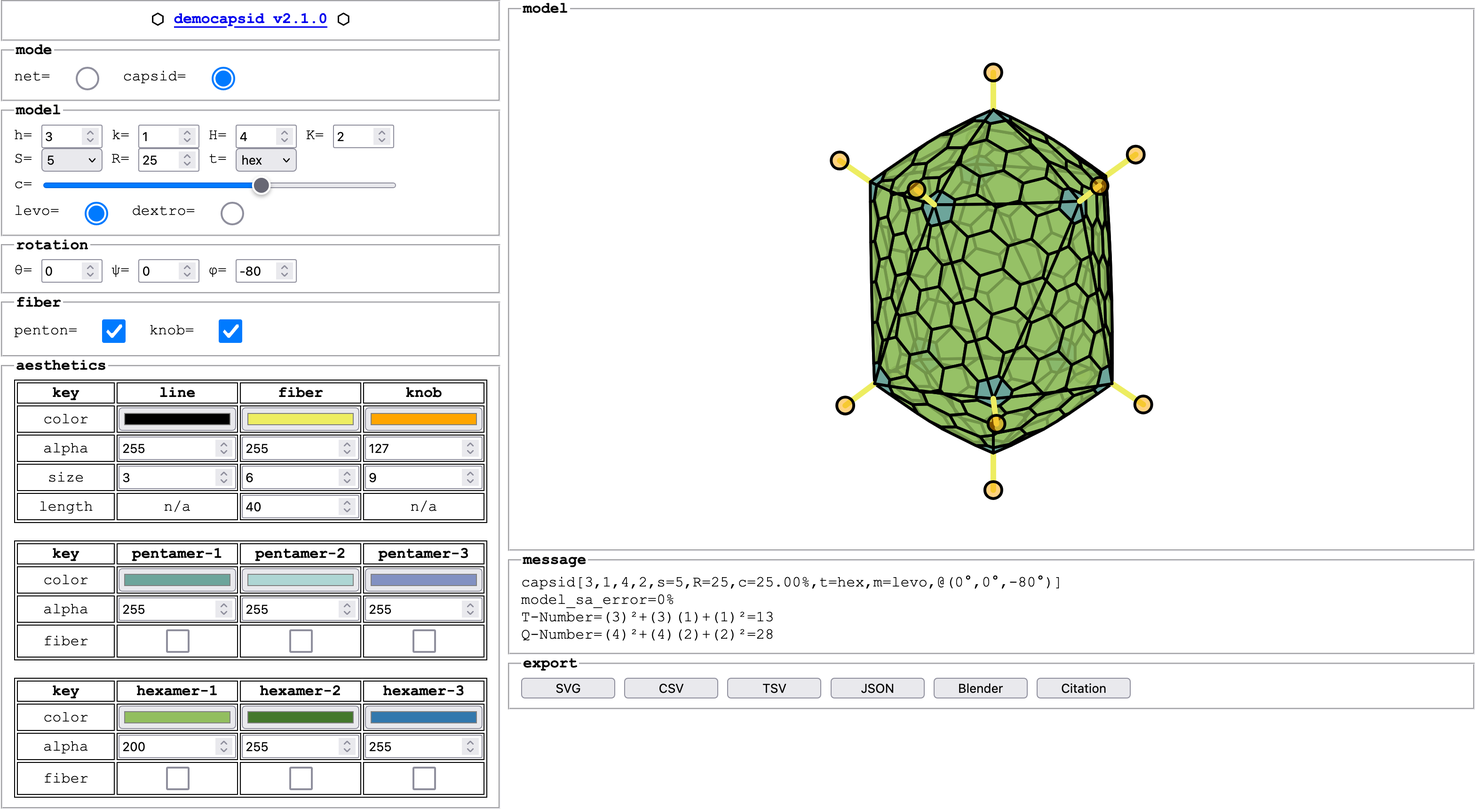
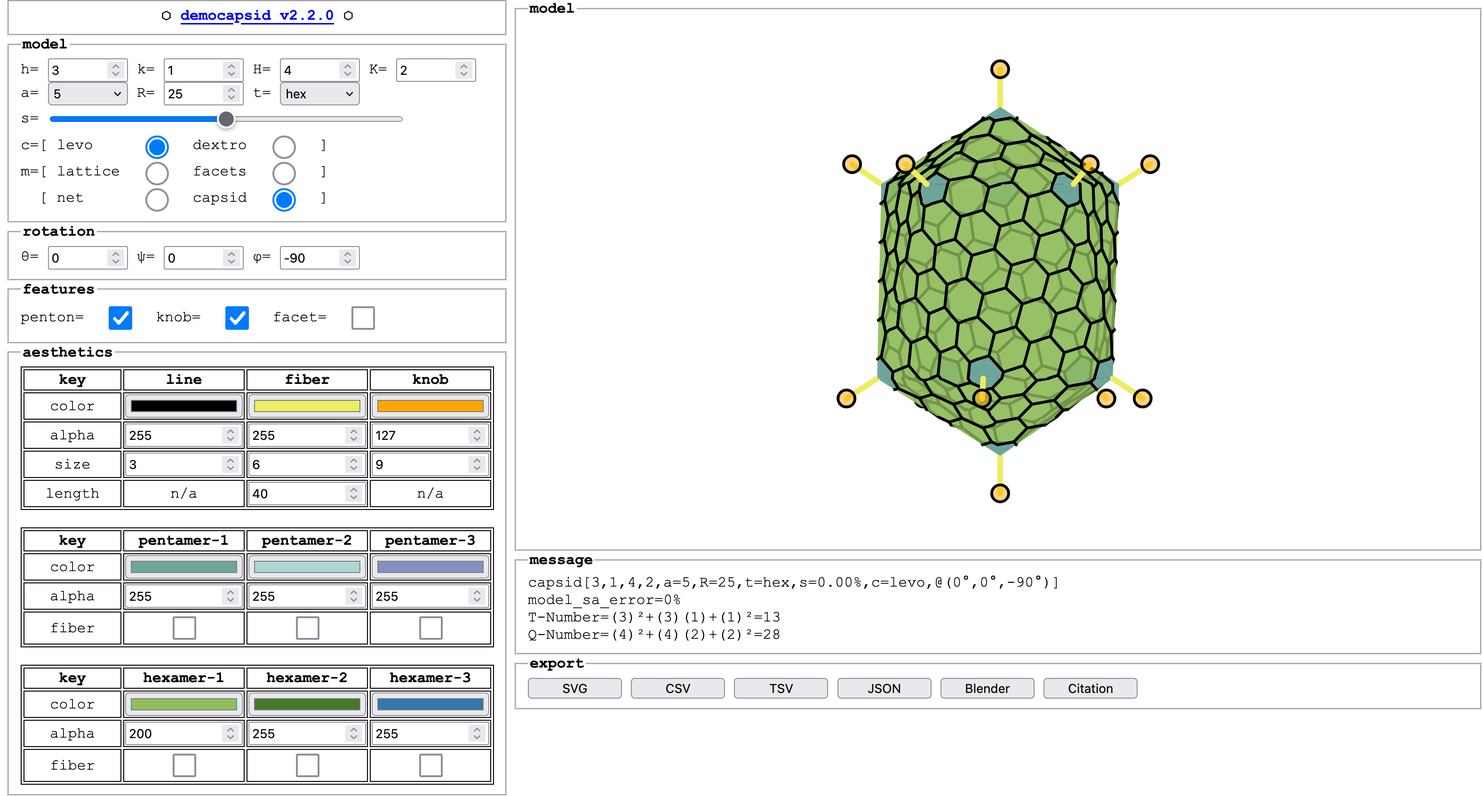
v2.2.0
-   make facet outline optional
-   add lattice generation
-   add facet generation

diff --git a/js/democapsid.min.js b/js/democapsid.min.js
@@ -1,6 +1,6 @@
 /*!
- * democapsid v2.1.3 - Render viral capsids in the browser and export SVG.
+ * democapsid v2.2.0 - Render viral capsids in the browser and export SVG.
  * MIT License
  * Copyright (c) 2020 - 2024, Daniel Antonio Negrón (dnanto/remaindeer)
  */
-const r="2.1.3",e=Math.sqrt(3),o=Math.sqrt(5),a=(1+o)/2,n=100,s=1e-15,i=1e-5;function mmul(t,r){const[e,o,a]=[t.length,t[0].length,r[0].length];for(var n=new Array(e),s=0;s<e;s++)n[s]=new Array(a).fill(0);for(s=0;s<e;s++)for(var i=0;i<a;i++)for(var c=0;c<o;c++)n[s][i]+=t[s][c]*r[c][i];return n}function det2(t){return t[0][0]*t[1][1]-t[0][1]*t[1][0]}function det3(t){return t[0][0]*(t[1][1]*t[2][2]-t[1][2]*t[2][1])-t[0][1]*(t[1][0]*t[2][2]-t[1][2]*t[2][0])+t[0][2]*(t[1][0]*t[2][1]-t[1][1]*t[2][0])}function inv2(t){const r=det2(t);return[[t[1][1],-t[0][1]].div(r),[-t[1][0],t[0][0]].div(r)]}function inv3(t){const[r,e,o,a,n,s,i,c,d]=[t[0][0],t[0][1],t[0][2],t[1][0],t[1][1],t[1][2],t[2][0],t[2][1],t[2][2]],l=this.det3(t);return[[(n*d-s*c)/l,-(e*d-o*c)/l,(e*s-o*n)/l],[-(a*d-s*i)/l,(r*d-o*i)/l,-(r*s-o*a)/l],[(a*c-n*i)/l,-(r*c-e*i)/l,(r*n-e*a)/l]]}function T(t){for(var r=Array.from({length:t[0].length},(()=>Array.from({length:t.length},(()=>[])))),e=0;e<r.length;e++)r[e]=new Array(t.length);for(e=0;e<t.length;e++)for(var o=0;o<t[0].length;o++)r[o][e]=t[e][o];return r}function rotmat3(t,r,e){const[o,a,n,s,i,c]=[Math.sin(t),Math.sin(r),Math.sin(e),Math.cos(t),Math.cos(r),Math.cos(e)];return[[s*i,s*a*n-o*c,s*a*c+o*n],[o*i,o*a*n+s*c,o*a*c-s*n],[-a,i*n,i*c]]}function camera(t,r,e,o=[0,0,0]){const a=rotmat3(t,r,e),n=[[1,0,0,-o[0]],[0,1,0,-o[1]],[0,0,1,-o[2]]];return mmul(mmul([[1,0,0],[0,1,0],[0,0,1]],a),n)}function*brackets(t,r,e,o){const a=e/o;let n=Math.sign(t(r));for(let s=0;s<o;s++){let e=r+s*a,o=Math.sign(t(e));n!=o&&(yield[r+(s-1)*a,e],n=o)}}function bisection(t,r,e,o,a){let n=1,s=(r+e)/2,i=t(s);for(;n<=a&&(s=(r+e)/2,i=t(s),!(0==i||(e-r)/2<o));n++)Math.sign(i)==Math.sign(t(r))?r=s:e=s;return[n,i,s]}function degrees(t){return 180*t/Math.PI}function radians(t){return t*Math.PI/180}function calc_tile(t,r){const o=r*(e/2);let a;if("hex"===t)a={basis:[[2*o,0],[o,e*o]],tile:t=>[new paper.Path.RegularPolygon({center:t.coor,sides:6,radius:r,data:{mer:1}})],radius:r};else if("trihex"===t)a={basis:[[2*r,0],[r,r*e]],tile:t=>[new paper.Path.RegularPolygon({center:t.coor,sides:6,radius:r,data:{mer:1}}).rotate(30),...Array.from({length:2},((e,a)=>new paper.Path.RegularPolygon({center:t.coor.add([r,-1/3*o]),sides:3,radius:2/3*o,data:{mer:2}}).rotate(180).rotate(60*a,t.coor)))],radius:2*o};else if("snubhex"===t)a={basis:[[2.5*r,o],[.5*r,3*o]],tile:t=>[new paper.Path.RegularPolygon({center:t.coor,sides:6,radius:r,data:{mer:1}}).rotate(30),...Array.from({length:6},((r,e)=>new paper.Path.RegularPolygon({center:t.coor.add([0,-o-1/3*o]),sides:3,radius:2/3*o,data:{mer:2}}).rotate(60*e,t.coor))),new paper.Path.RegularPolygon({center:t.coor.add([1.5*r,-1/3*o]),sides:3,radius:2/3*o,data:{mer:2}}),new paper.Path.RegularPolygon({center:t.coor.add([-1.5*r,2/3*o]),sides:3,radius:2/3*o,data:{mer:2}}).rotate(180)],radius:2*o};else if("rhombitrihex"===t)a={basis:[[r+o+.5*r,.5*r+o],[0,2*o+r]],tile:t=>[new paper.Path.RegularPolygon({center:t.coor,sides:6,radius:r,data:{mer:1}}).rotate(30),...Array.from({length:3},((o,a)=>new paper.Path.RegularPolygon({center:t.coor.add([0,r+r*(e/3)]),sides:3,radius:r/e,data:{mer:2}}).rotate(-60*a-30,t.coor))),...Array.from({length:3},((e,a)=>new paper.Path.RegularPolygon({center:t.coor.add([0,-o-.5*r]),sides:4,radius:Math.sqrt(2*r*r)/2,data:{mer:3}}).rotate(60*a,t.coor)))],radius:Math.sqrt(Math.pow(o+r,2)+Math.pow(r/2,2))};else if("dualhex"===t)a={basis:[[1.5*r,o],[0,2*o]],tile:t=>Array.from({length:6},((a,n)=>new paper.Path.RegularPolygon({center:t.coor.add([0,o-r*e/6]),sides:3,radius:r/e,data:{mer:1}}).rotate(60*n,t.coor))),radius:r};else if("dualtrihex"===t)a={basis:[[2*o,0],[o,e*o]],tile:t=>[...Array.from({length:6},((e,a)=>new paper.Path({segments:[[0,0],[.5*o,-.25*r*Math.sin(Math.PI/6)/Math.cos(Math.PI/3)],[o,0],[.5*o,.25*r*Math.sin(Math.PI/6)/Math.cos(Math.PI/3)]].map((r=>t.coor.add(r))),closed:!0,data:{mer:1}}).rotate(60*a,t.coor))),...Array.from({length:6},((e,a)=>new paper.Path({segments:[[-.5*o,.5*r+.25*r*Math.sin(Math.PI/6)/Math.cos(Math.PI/3)],[0,.5*r],[o-.5*o,.5*r+.25*r*Math.sin(Math.PI/6)/Math.cos(Math.PI/3)],[0,.5*r+.25*r*Math.sin(Math.PI/6)*2/Math.cos(Math.PI/3)]].map((r=>t.coor.add(r))),closed:!0,data:{mer:2}}).rotate(60*a,t.coor)))],radius:r};else if("dualsnubhex"===t)a={basis:[[2.5*r,o],[.5*r,2*o+r*e/3*2-r*e/6]],tile:t=>Array.from({length:6},((a,n)=>new paper.Path({segments:[[0,0],[0,o+r*e/6],[.5*r,o+r*e/3],[r,o+r*e/6],[r,r*e/3]].map((r=>t.coor.add(r))),closed:!0,data:{mer:1}}).rotate(60*n,t.coor))),radius:o+r*e/3};else{if("dualrhombitrihex"!==t)throw new Error("incorrect tile mode");a={basis:[[1.5*r,o],[0,2*o]],tile:t=>Array.from({length:6},((a,n)=>new paper.Path({segments:[[0,0],[0,o],[.5*r,o],[e/2*o,.5*o]].map((r=>t.coor.add(r))),closed:!0,data:{mer:1}}).rotate(60*n,t.coor))),radius:r}}return a}function*tile_grid(t,r){const e=t.map((t=>mmul(T(inv2(r)),[t,1].flat().T()).flat())).map((t=>t.map(Math.round))),[o,a,n,s]=[...[0,1].map(((t,r)=>Math.min(...e.map((t=>t[r]))))),...[0,1].map(((t,r)=>Math.max(...e.map((t=>t[r])))))];for(let i=o;i<n+1;i++)for(let t=a;t<s+1;t++)yield{index:[i,t],coor:r[0].mul(i).add(r[1].mul(t)),is_vertex:e.has([i,t])}}function ck_vectors(t,r,e,o,a){const[n,s]=t,i=s.rot(Math.PI/3);return[n.mul(r).add(s.mul(e)),s.mul(o).add(i.mul(a)),n.mul(-r-e).add(s.mul(r)),n.mul(e).add(i.mul(-r))]}function triangle_circumcircle_center(t,r,e){const[o,a]=[t.sub(e),r.sub(e)],n=o.cross(a);return a.mul(o.norm()**2).sub(o.mul(a.norm()**2)).cross(n).div(2*n.norm()**2).add(e)}function tetrahedron_circumsphere_center(t,r,e,o){const[a,n,s]=[r,e,o].map((r=>r.sub(t)));return t.add(a.cross(n).mul(s.norm()**2).add(s.cross(a).mul(n.norm()**2)).add(n.cross(s).mul(a.norm()**2)).div(2*det3([a,n,s])))}function body_radius(t){return t[6].sub([0,0,t[6][2]]).norm()}function height(t){return t[0][2]-t[19][2]}function body_height(t){return t[4][2]-t[6][2]}function sd_sphere(t,r){return t.norm()-r}function spherize(t,r,e){return t.uvec().mul(Math.abs(sd_sphere(t,r))*e).add(t)}function cylinderize(t,r,e,o){const[a,n]=[body_radius(r),body_height(r)/2];let s,i;if(5===e)s=[0,0,n-a/2],i=r[0][2]+a/2-n;else if(3===e){const[t,e]=[r[0],r[3]];s=triangle_circumcircle_center(t,e,[e[0],-e[1],e[2]]),i=t.sub(s).norm()}else 2===e&&(p1=r[0],s=tetrahedron_circumsphere_center(p1,...[1,4,5].map((t=>r[t]))),i=p1.sub(s).norm());const[c,d,l,u]=[[0,0,s[2]],[0,0,-s[2]],[0,0,n],[0,0,-n]];if(n<t[2]){const r=Math.abs(sd_sphere(t.sub(c),i));return t.sub(l).uvec().mul(r*o).add(t)}if(t[2]<-n){const r=Math.abs(sd_sphere(t.sub(d),i));return t.sub(u).uvec().mul(r*o).add(t)}return t.sub([0,0,t[2]]).uvec().mul((a-t.slice(0,2).norm())*o).add(t)}function ico_config(t){let r;if(5===t)r=[[1,1,2,2],["T1-▲","T1-▼","T2-▲","T2-▼"],[[0,1,2],[6,11,7],[2,1,6],[6,7,2]],[5,5,5,5],[[1,2,3,4,5],[0,2,5,6,10],[0,1,3,6,7],[0,2,4,7,8],[0,3,5,8,9],[0,1,4,9,10],[1,2,7,10,11],[2,3,6,8,11],[3,4,7,9,11],[4,5,8,10,11],[1,5,6,9,11],[6,7,8,9,10]]];else if(3===t)r=[[1,1,1,1,2,2,3,3],["T1-▔","T1-▲","T1-▼","T1-▁","T2-▼","T2-▲","T3-▼","T3-▲"],[[0,2,1],[1,2,3],[6,9,11],[9,10,11],[1,3,6],[9,6,3],[1,6,5],[11,5,6]],[1,3,3,1,3,3,3,3],[[1,2,4,5,8],[0,2,3,5,6],[0,1,3,4,7],[1,2,6,7,9],[0,2,7,8,10],[0,1,6,8,11],[1,3,5,9,11],[2,3,4,9,10],[0,4,5,10,11],[3,6,7,10,11],[4,7,8,9,11],[5,6,8,9,10]]];else{if(2!==t)throw new Error("a must be 2, 3, or 5");r=[[1,1,1,1,2,2,2,2,3,3],["T1-▔","T1-▔","T1▁","T1▁","T2-▼","T2-▲","T2-▼","T2-▲","T3-▼","T3-▲"],[[0,1,2],[2,1,4],[9,10,6],[9,11,10],[0,2,6],[9,6,2],[2,4,9],[11,9,4],[0,6,5],[10,5,6]],[2,2,2,2,2,2,2,2,2,2],[[1,2,3,5,6],[0,2,3,4,7],[0,1,4,6,9],[0,1,5,7,8],[1,2,7,9,11],[0,3,6,8,10],[0,2,5,9,10],[1,3,4,8,11],[3,5,7,10,11],[2,4,6,10,11],[5,6,8,9,11],[4,7,8,9,10]]]}return Object.fromEntries(["t_idx","t_id","v_idx","t_rep","v_con"].map(((t,e)=>[t,r[e]])))}function ico_axis_5(t){const[r,e]=[t[0].norm(),t[1].norm()],a=r*Math.sqrt((5+o)/10),n=[0,0,(1+o)*r/(2*Math.sqrt(5+2*o))],s=[-a,0,0].roro([0,0,1],.3*Math.PI),i=s.add([r,0,0]),c=t[0].angle(t[1]),d=i.add([e,0,0].roro([0,1,0],-Math.PI-c)),l=s.add(d.sub(s).proj(i.sub(s))),u=[l[0],-Math.abs(l[1])*Math.sqrt(a*a*l[1]*l[1]-(l[0]*l[1])**2)/(l[1]*l[1]),0];if(Number.isNaN(u[1]))throw new Error("impossible construction!");const h=u.add([0,0,-Math.sqrt(d[2]*d[2]-(l[1]-u[1])**2)]);return[n,s,i].concat([1,2,3].map((t=>i.roro([0,0,1],2*t/5*Math.PI)))).concat([h]).concat([1,2,3,4].map((t=>h.roro([0,0,1],2*t/5*Math.PI)))).concat([[0,0,h[2]-n[2]]]).map((t=>t.add([0,0,-h[2]/2])))}function ico_axis_3(r,o=n,a=s){const[i,c,d]=[r[0].norm(),r[1].norm(),r[2].sub(r[1]).norm()],l=[0,i*(1/e),0],u=[i/2,-i*(e/6),0],h=[-i/2,-i*(e/6),0],p=[0,-i*(2*e/3),0];function fold(t){let[n,s]=[p.uvec().mul(i*(e/2)),u.sub(h).uvec()];const l=[0,-i*(e/6),0].add(n.roro(s,t)),m=l.roro([0,0,1],2/3*Math.PI);t=r[0].angle(r[1]),[n,s]=[l.sub(u).uvec().mul(c),l.cross(u).uvec()];const b=n.roro(s,t),[_,g]=[u.add(b.proj(n)),u.add(b)];[n,s]=[g.sub(_),u.sub(l).uvec()];const f=t=>d-_.add(n.roro(s,t)).sub(m).norm();brackets(f,0,2*Math.PI,o).next().value;t=bisection(f,...brackets(f,0,2*Math.PI,o).next().value,a,o).slice(-1);const y=_.add(n.roro(s,t));return[l,m,y,Math.abs(l[1])-y.sub([0,0,y[2]]).norm()]}const m=Math.PI/180/10;t=0;for(let e=0;e*m<Math.PI/2;e++){t=e*m;try{fold(t);break}catch(w){}}let obj=t=>fold(t).slice(-1)[0];try{t=bisection(obj,...brackets(obj,t,Math.PI/4,o).next().value,a,o).slice(-1)}catch(w){throw new Error("impossible construction!")}const[b,_,g]=fold(t).slice(0,-1);if(Number.isNaN(b[0]))throw new Error("impossible construction!");const y=[0,0,1];t=2*Math.PI/3;const M=g.roro(y,-t),v=M.sub([0,0,M[2]]).roro(y,Math.PI/3).uvec().mul(l[1]).add([0,0,M[2]+b[2]-l[2]]);let P=[l,u,h,b,_.roro(y,t),_,g,M,M.roro(y,-t),v,v.roro(y,-t),v.roro(y,-2*t)];return P.map((t=>t.add([0,0,(P[0][2]-P.slice(-1)[0][2])/2])))}function ico_axis_2(r,e=n,o=s){const[i,c,d]=[r[0].norm(),r[1].norm(),r[2].sub(r[1]).norm()],l=[i/2,0,0],u=[-i/2,0,0],h=[0,-i*a/2,-(i*a-i)/2],p=[0,i*a/2,-(i*a-i)/2];function fold(t){let a=u.add(h).div(2),[n,s]=[a.sub(l),h.sub(u).uvec()];const i=a.add(n.roro(s,t)),p=i.roro([0,0,1],Math.PI);t=r[0].angle(r[1]),[n,s]=[h.sub(l).uvec().mul(c),h.cross(l).uvec()];const m=n.roro(s,t);a=l.add(m.proj(n));const b=l.add(m);[n,s]=[b.sub(a),l.sub(h).uvec()];const f=t=>d-a.add(n.roro(s,t)).sub(p).norm();t=bisection(f,...brackets(f,0,2*Math.PI,e).next().value,o,e).slice(-1);const _=a.add(n.roro(s,t));return[i,p,_,i.sub([0,0,i[2]]).norm()-_.sub([0,0,_[2]]).norm()]}const m=Math.PI/180/10;t=0;for(let a=0;a*m<Math.PI/2;a++){t=a*m;try{fold(t);break}catch(v){}}let obj=t=>fold(t).slice(-1)[0];try{t=bisection(obj,...brackets(obj,t,Math.PI/4,e).next().value,o,e).slice(-1)}catch(v){throw new Error("impossible construction!")}const[b,_,g]=fold(t).slice(0,-1);if(Number.isNaN(b[0]))throw new Error("impossible construction!");obj=t=>l.roro([0,0,1],t).add([0,0,g[2]+b[2]]).sub(_).norm()-c;try{t=bisection(obj,...brackets(obj,0,2*Math.PI,e).next().value,o,e).slice(-1)}catch(v){throw new Error("impossible construction!")}const y=l.roro([0,0,1],t).add([0,0,g[2]+b[2]]),M=y.sub([0,0,y[2]]).uvec().roro([0,0,1],Math.PI/2).mul(p[1]).add([0,0,g[2]+b[2]-p[2]]);return coor=[l,u,h,p,b,_,g,g.roro([0,0,1],Math.PI),M,M.roro([0,0,1],Math.PI),y,y.roro([0,0,1],Math.PI)],coor.map((t=>t.add([0,0,(coor[0][2]-coor.slice(-1)[0][2])/2])))}function model_sa_error(t){const r=ck_vectors(calc_tile(t.t,t.R).basis,t.h,t.k,t.H,t.K),e=[[r[3],r[0]],[r[0],r[1]],[r[1],r[2]]],o=["","",ico_axis_2,ico_axis_3,"",ico_axis_5][t.a](r,n,s),a=ico_config(t.a),i=a.t_id.map((t=>parseInt(t[1]))).reduce(((t,r)=>t<r?r:t)),c=Array.from({length:i}).fill(0);a.t_id.forEach(((t,r)=>c[t[1]-1]+=a.t_rep[r]));const d=e.slice(0,i).map(((t,r)=>[...t[0],0].cross([...t[1],0]).norm()/2*c[r])).sum();return(d-a.v_idx.map((t=>t.map((t=>o[t])))).map(((t,r)=>t[1].sub(t[0]).cross(t[2].sub(t[0])).norm()/2*a.t_rep[r])).sum())/d}function lattice_config(t,r,e,o,a,n){const s=calc_tile(n,a),i=ck_vectors(s.basis,t,r,e,o),c=Array.from(tile_grid(i,s.basis)),d=c.map(s.tile),l=c.filter((t=>t.is_vertex)).map((t=>t.coor)).concat([[0,0]]);return d.flat().forEach((t=>{t.data.offset=t.data.mer+(l.some((r=>[t.position.x,t.position.y].sub(r).norm()<=s.radius))?0:3),t.data.centroid=t.segments.map((t=>t.point)).reduce(((t,r)=>t.add(r))).divide(t.segments.length)})),{tile:s,ck:i,lattice:d}}function calc_facets(t){const r=[[3,0],[0,1],[1,2]].map((r=>[t.ck[r[0]],t.ck[r[1]]])).map((t=>new paper.Path({segments:[[0,0],...t],closed:!0,data:{vectors:[[0,0],...t]}}))),e=r.map((r=>new paper.Group({children:t.lattice.flatMap((t=>t.map((t=>{const e=t.intersect(r,{insert:!1});return e.data.has_centroid=r.contains(e.data.centroid),e.data.centroid_on_vertex=r.segments.map((t=>t.point.getDistance(e.data.centroid))).some((t=>t<1e-5)),e})))).filter((t=>t.segments.length>0)),data:r.data})));return r.forEach((t=>t.remove())),e}function draw_net(t){const[r,e,o,a,n,s]=["h","k","H","K","R","t"].map((r=>t[r])),i=lattice_config(r,e,o,a,n,s),c=i.ck;i.lattice.flat().forEach((r=>r.style.fillColor=t["mer_color_"+r.data.offset]+t["mer_alpha_"+r.data.offset]));const d=calc_facets(i);let l;if(5===t.a){const r=new paper.Group(d.slice(0,2)).rotate(-degrees(c[0].angle([1,0]))).scale(-1,1),e=r.clone().rotate(180),o=e.children[1].children.flatMap((t=>t.segments)).map((t=>t.point)).reduce(((t,r)=>t.y<r.y?t:r));e.position.x+=r.children[0].bounds.right-o.x,e.position.y+=r.children[0].bounds.height,l=new paper.Group({children:Array.from({length:5}).flatMap(((t,o)=>{const[a,n]=[r.clone(),e.clone()];return a.position.x+=o*r.children[0].bounds.width,n.position.x+=o*r.children[0].bounds.width,[a,n]})).flatMap((t=>t.children)),position:paper.view.center,style:{strokeColor:t.line_color+t.line_alpha,strokeWidth:t.line_size,strokeCap:"round",strokeJoin:"round"}}),[r,e].forEach((t=>t.remove()))}else if(3===t.a){const r=c[0].angle([1,0]),e=new paper.Group(d).rotate(-degrees(r)).scale(-1,1),o=d[0].clone().rotate(180);o.position.x+=c[0].norm()/2;const a=[o.bounds.topLeft,o.bounds.topRight,o.bounds.bottomCenter].reduce(((t,r)=>t.add(r))).divide(3),n=o.bounds.topRight.add(new paper.Point([1,0].mul(c[1].norm()).rot(-(Math.PI/3-c[1].angle(c[2]))))),s=o.bounds.topRight.add(new paper.Point([1,0].mul(c[2].norm()).rot(-(Math.PI/3-c[1].angle(c[2])+c[1].angle(c[2]))))),i=new paper.Group([...[1,2,3].map(((t,r)=>e.clone().rotate(120*r,a)))]);i.children.slice(0,-1).forEach((t=>t.children[1].remove()));const u=i.clone().rotate(180);u.bounds.left=Math.min(n.x,s.x),u.bounds.bottom=o.bounds.topRight.y,u.position.y-=u.children[1].children[0].bounds.bottom-n.y,u.children.forEach((t=>i.addChild(t.clone()))),i.position=paper.view.center,l=new paper.Group({children:i.children.flatMap((t=>t.children.flat())),style:{strokeColor:t.line_color+t.line_alpha,strokeWidth:t.line_size,strokeCap:"round",strokeJoin:"round"}}),[o,e,u].forEach((t=>t.remove()))}else{if(2!==t.a)throw new Error("invalid symmetry mode!");{const r=c[0].angle([1,0]),e=new paper.Group(d).rotate(-degrees(r)).rotate(-60).scale(-1,1),o=e.children[1].clone(),a=e.children[0].bounds.topLeft.subtract(e.children[0].bounds.bottomCenter);o.position=o.position.add(a);const n=new paper.Group([e.clone(),e.children[0].clone().rotate(60,e.children[0].bounds.topRight),o.clone()]),s=n.clone().rotate(180,n.children[0].children[0].bounds.topRight);s.position=s.position.add(a.rotate(240));const i=new paper.Group([n,s]),u=i.children[0].children[2].children.filter((t=>1===t.data.offset)).flatMap((t=>t.segments.map((t=>t.point)))).filter((t=>Math.abs(t.getDistance(i.children[0].children[1].bounds.bottomLeft)-c[1].norm())<1e-5)).reduce(((t,r)=>t.y<r.y?r:t)),h=i.clone();h.position=h.position.add(i.children[1].children[0].children[0].bounds.bottomRight.subtract(u));const p=new paper.Group([i,h]);p.position=paper.view.center;const m=p.children.flatMap((t=>t.children)).flatMap((t=>t.children));l=new paper.Group({children:[...m.filter(((t,r)=>r%3==0)).flatMap((t=>t.children)),...m.filter(((t,r)=>r%3!=0))],style:{strokeColor:t.line_color+t.line_alpha,strokeWidth:t.line_size,strokeCap:"round",strokeJoin:"round"}}),[2,5,8,11].forEach((t=>l.children[t].remove())),[e,o,n,s,i,h].forEach((t=>t.remove()))}}return d.forEach((t=>t.remove())),i.lattice.forEach((t=>t.forEach((t=>t.remove())))),l.scale(-1,1)}function draw_capsid(t){const[r,e,o,a,c,d]=["h","k","H","K","R","t"].map((r=>t[r])),l=lattice_config(r,e,o,a,c,d);l.lattice.flat().forEach((r=>r.style.fillColor=t["mer_color_"+r.data.offset]+t["mer_alpha_"+r.data.offset]));const u=calc_facets(l),h=ico_config(t.a),p=["","",ico_axis_2,ico_axis_3,"",ico_axis_5][t.a](l.ck,n,s),m=2*Math.PI/t.a,b=r==o&&e==a?r=>spherize(r,p[0].norm(),t.s):r=>cylinderize(r,p,t.a,t.s),_=camera(...[t.θ,t.ψ,t.φ].map(radians));let g=[];for(let n=0,s=0;n<h.t_idx.length;n++){const t=u[h.t_idx[n]-1],r=inv3(T(t.data.vectors.map((t=>t.concat(1))))),e=[0,1,2].map((t=>p[h.v_idx[n][t]]));for(let o=0;o<h.t_rep[n];o++,s++){const a=e.map((t=>t.roro([0,0,1],o*m))),n=mmul(T(a),r),i=t.children.map((t=>{const r=t.segments.map((t=>[t.point.x,t.point.y,1])).map((t=>mmul(n,t.T()).flat())).map((t=>b(t))).map((t=>mmul(_,t.concat(1).T()).flat())),e=mmul(_,b(mmul(n,[t.data.centroid.x,t.data.centroid.y,1].T()).flat()).concat(1).T()).flat();return new paper.Path({segments:r.map((t=>t.slice(0,2))),data:Object.assign({},t.data,{id:s,centroid:e,segments_3D:r,normal:r[1].sub(r[0]).cross(r[2].sub(r[0])).uvec()}),closed:!0,style:t.style})}));g=g.concat(new paper.Group({children:i,data:{type:"facet",centroid:mmul(_,b(a.centroid()).concat(1).T()).flat()}}))}}const y=p.map((t=>mmul(_,t.concat(1).T()).flat()));let M=t.penton_fiber_toggle?h.v_con.map((t=>t.map((t=>y[t])).reduce(((t,r)=>t.add(r)),[0,0,0]).uvec())).map(((r,e)=>[y[e],y[e].add(r.mul(t.fiber_length))])):[];M=M.concat(g.flatMap((t=>t.children)).filter((r=>t["mer_toggle_"+r.data.offset]&&r.data.has_centroid)).map((r=>{const e=r.data.centroid;return[e,e.add(r.data.normal.mul(t.fiber_length))]})));let v=[];M.forEach((t=>{let r=0;for(let e of v)t[0].sub(e[0][0]).norm()<i&&(r=e.push(t));0===r&&v.push([t])})),M=v.map((t=>[t[0][0],t.map((t=>t[1])).reduce(((t,r)=>t.add(r)),[0,0,0]).div(t.length)])).map((t=>new paper.Path.Line({from:t[0],to:t[1],data:{centroid:t[1].mul(2)}})));const P=t.knob_toggle?M.map((r=>new paper.Path.Circle({center:r.segments[1].point,radius:t.knob_size,data:{centroid:r.data.centroid}}))):[];g=g.concat(M).concat(P),g.sort(((t,r)=>t.data.centroid[2]-r.data.centroid[2]));const w=new paper.Group({children:g,position:paper.view.center,style:{strokeColor:t.line_color+t.line_alpha,strokeWidth:t.line_size,strokeCap:"round",strokeJoin:"round"}});return P.forEach((r=>r.style.fillColor=t.knob_color+t.knob_alpha)),M.forEach((r=>{r.style.strokeColor=t.fiber_color+t.fiber_alpha,r.style.strokeWidth=t.fiber_size})),u.forEach((t=>t.remove())),l.lattice.forEach((t=>t.forEach((t=>t.remove())))),w}Array.prototype.mul=function(t){return this.map((r=>r*t))},Array.prototype.div=function(t){return this.map((r=>r/t))},Array.prototype.add=function(t){return this.map(((r,e)=>r+t[e]))},Array.prototype.sub=function(t){return this.map(((r,e)=>r-t[e]))},Array.prototype.dot=function(t){return this.map(((r,e)=>r*t[e])).reduce(((t,r)=>t+r))},Array.prototype.sum=function(t=0){return this.reduce(((t,r)=>t+r),t)},Array.prototype.centroid=function(){return this.reduce(((t,r)=>t.add(r))).div(this.length)},Array.prototype.cross=function(t){return[this[1]*t[2]-this[2]*t[1],this[2]*t[0]-this[0]*t[2],this[0]*t[1]-this[1]*t[0]]},Array.prototype.rot=function(t){const[r,e]=[Math.cos(t),Math.sin(t)];return mmul([[r,-e],[e,r]],this.T()).flat()},Array.prototype.roro=function(t,r){return this.mul(Math.cos(r)).add(t.cross(this).mul(Math.sin(r))).add(t.mul(t.dot(this)).mul(1-Math.cos(r)))},Array.prototype.norm=function(){return Math.sqrt(this.map((t=>t*t)).sum())},Array.prototype.uvec=function(){return this.div(this.norm())},Array.prototype.angle=function(t){return Math.acos(this.dot(t)/(this.norm()*t.norm()))},Array.prototype.proj=function(t){return t.mul(this.dot(t)/t.dot(t))},Array.prototype.T=function(){return this.map((t=>[t]))},Array.prototype.has=function(t){return this.some((r=>r.length===t.length&&r.every(((r,e)=>r===t[e]))))},"undefined"!=typeof exports&&(module.exports={ico_axis_2:ico_axis_2,ico_axis_3:ico_axis_3,ico_axis_5:ico_axis_5});
+const t="2.2.0",e=Math.sqrt(3),r=Math.sqrt(5),o=(1+r)/2,a=100,n=1e-15,s=1e-5;function mmul(t,e){const[r,o,a]=[t.length,t[0].length,e[0].length];for(var n=new Array(r),s=0;s<r;s++)n[s]=new Array(a).fill(0);for(s=0;s<r;s++)for(var i=0;i<a;i++)for(var c=0;c<o;c++)n[s][i]+=t[s][c]*e[c][i];return n}function det2(t){return t[0][0]*t[1][1]-t[0][1]*t[1][0]}function det3(t){return t[0][0]*(t[1][1]*t[2][2]-t[1][2]*t[2][1])-t[0][1]*(t[1][0]*t[2][2]-t[1][2]*t[2][0])+t[0][2]*(t[1][0]*t[2][1]-t[1][1]*t[2][0])}function inv2(t){const e=det2(t);return[[t[1][1],-t[0][1]].div(e),[-t[1][0],t[0][0]].div(e)]}function inv3(t){const[e,r,o,a,n,s,i,c,l]=[t[0][0],t[0][1],t[0][2],t[1][0],t[1][1],t[1][2],t[2][0],t[2][1],t[2][2]],d=this.det3(t);return[[(n*l-s*c)/d,-(r*l-o*c)/d,(r*s-o*n)/d],[-(a*l-s*i)/d,(e*l-o*i)/d,-(e*s-o*a)/d],[(a*c-n*i)/d,-(e*c-r*i)/d,(e*n-r*a)/d]]}function T(t){for(var e=Array.from({length:t[0].length},(()=>Array.from({length:t.length},(()=>[])))),r=0;r<e.length;r++)e[r]=new Array(t.length);for(r=0;r<t.length;r++)for(var o=0;o<t[0].length;o++)e[o][r]=t[r][o];return e}function rotmat3(t,e,r){const[o,a,n,s,i,c]=[Math.sin(t),Math.sin(e),Math.sin(r),Math.cos(t),Math.cos(e),Math.cos(r)];return[[s*i,s*a*n-o*c,s*a*c+o*n],[o*i,o*a*n+s*c,o*a*c-s*n],[-a,i*n,i*c]]}function camera(t,e,r,o=[0,0,0]){const a=rotmat3(t,e,r),n=[[1,0,0,-o[0]],[0,1,0,-o[1]],[0,0,1,-o[2]]];return mmul(mmul([[1,0,0],[0,1,0],[0,0,1]],a),n)}function*brackets(t,e,r,o){const a=r/o;let n=Math.sign(t(e));for(let s=0;s<o;s++){let r=e+s*a,o=Math.sign(t(r));n!=o&&(yield[e+(s-1)*a,r],n=o)}}function bisection(t,e,r,o,a){let n=1,s=(e+r)/2,i=t(s);for(;n<=a&&(s=(e+r)/2,i=t(s),!(0==i||(r-e)/2<o));n++)Math.sign(i)==Math.sign(t(e))?e=s:r=s;return[n,i,s]}function degrees(t){return 180*t/Math.PI}function radians(t){return t*Math.PI/180}function calc_tile(t,r){const o=r*(e/2);let a;if("hex"===t)a={basis:[[2*o,0],[o,e*o]],tile:t=>[new paper.Path.RegularPolygon({center:t.coor,sides:6,radius:r,data:{mer:1}})],radius:r};else if("trihex"===t)a={basis:[[2*r,0],[r,r*e]],tile:t=>[new paper.Path.RegularPolygon({center:t.coor,sides:6,radius:r,data:{mer:1}}).rotate(30),...Array.from({length:2},((e,a)=>new paper.Path.RegularPolygon({center:t.coor.add([r,-1/3*o]),sides:3,radius:2/3*o,data:{mer:2}}).rotate(180).rotate(60*a,t.coor)))],radius:2*o};else if("snubhex"===t)a={basis:[[2.5*r,o],[.5*r,3*o]],tile:t=>[new paper.Path.RegularPolygon({center:t.coor,sides:6,radius:r,data:{mer:1}}).rotate(30),...Array.from({length:6},((e,r)=>new paper.Path.RegularPolygon({center:t.coor.add([0,-o-1/3*o]),sides:3,radius:2/3*o,data:{mer:2}}).rotate(60*r,t.coor))),new paper.Path.RegularPolygon({center:t.coor.add([1.5*r,-1/3*o]),sides:3,radius:2/3*o,data:{mer:2}}),new paper.Path.RegularPolygon({center:t.coor.add([-1.5*r,2/3*o]),sides:3,radius:2/3*o,data:{mer:2}}).rotate(180)],radius:2*o};else if("rhombitrihex"===t)a={basis:[[r+o+.5*r,.5*r+o],[0,2*o+r]],tile:t=>[new paper.Path.RegularPolygon({center:t.coor,sides:6,radius:r,data:{mer:1}}).rotate(30),...Array.from({length:3},((o,a)=>new paper.Path.RegularPolygon({center:t.coor.add([0,r+r*(e/3)]),sides:3,radius:r/e,data:{mer:2}}).rotate(-60*a-30,t.coor))),...Array.from({length:3},((e,a)=>new paper.Path.RegularPolygon({center:t.coor.add([0,-o-.5*r]),sides:4,radius:Math.sqrt(2*r*r)/2,data:{mer:3}}).rotate(60*a,t.coor)))],radius:Math.sqrt(Math.pow(o+r,2)+Math.pow(r/2,2))};else if("dualhex"===t)a={basis:[[1.5*r,o],[0,2*o]],tile:t=>Array.from({length:6},((a,n)=>new paper.Path.RegularPolygon({center:t.coor.add([0,o-r*e/6]),sides:3,radius:r/e,data:{mer:1}}).rotate(60*n,t.coor))),radius:r};else if("dualtrihex"===t)a={basis:[[2*o,0],[o,e*o]],tile:t=>[...Array.from({length:6},((e,a)=>new paper.Path({segments:[[0,0],[.5*o,-.25*r*Math.sin(Math.PI/6)/Math.cos(Math.PI/3)],[o,0],[.5*o,.25*r*Math.sin(Math.PI/6)/Math.cos(Math.PI/3)]].map((e=>t.coor.add(e))),closed:!0,data:{mer:1}}).rotate(60*a,t.coor))),...Array.from({length:6},((e,a)=>new paper.Path({segments:[[-.5*o,.5*r+.25*r*Math.sin(Math.PI/6)/Math.cos(Math.PI/3)],[0,.5*r],[o-.5*o,.5*r+.25*r*Math.sin(Math.PI/6)/Math.cos(Math.PI/3)],[0,.5*r+.25*r*Math.sin(Math.PI/6)*2/Math.cos(Math.PI/3)]].map((e=>t.coor.add(e))),closed:!0,data:{mer:2}}).rotate(60*a,t.coor)))],radius:r};else if("dualsnubhex"===t)a={basis:[[2.5*r,o],[.5*r,2*o+r*e/3*2-r*e/6]],tile:t=>Array.from({length:6},((a,n)=>new paper.Path({segments:[[0,0],[0,o+r*e/6],[.5*r,o+r*e/3],[r,o+r*e/6],[r,r*e/3]].map((e=>t.coor.add(e))),closed:!0,data:{mer:1}}).rotate(60*n,t.coor))),radius:o+r*e/3};else{if("dualrhombitrihex"!==t)throw new Error("incorrect tile mode");a={basis:[[1.5*r,o],[0,2*o]],tile:t=>Array.from({length:6},((a,n)=>new paper.Path({segments:[[0,0],[0,o],[.5*r,o],[e/2*o,.5*o]].map((e=>t.coor.add(e))),closed:!0,data:{mer:1}}).rotate(60*n,t.coor))),radius:r}}return a}function*tile_grid(t,e){const r=t.map((t=>mmul(T(inv2(e)),[t,1].flat().T()).flat())).map((t=>t.map(Math.round))),[o,a,n,s]=[...[0,1].map(((t,e)=>Math.min(...r.map((t=>t[e]))))),...[0,1].map(((t,e)=>Math.max(...r.map((t=>t[e])))))];for(let i=o;i<n+1;i++)for(let t=a;t<s+1;t++)yield{index:[i,t],coor:e[0].mul(i).add(e[1].mul(t)),is_vertex:r.has([i,t])}}function ck_vectors(t,e,r,o,a){const[n,s]=t,i=s.rot(Math.PI/3);return[n.mul(e).add(s.mul(r)),s.mul(o).add(i.mul(a)),n.mul(-e-r).add(s.mul(e)),n.mul(r).add(i.mul(-e))]}function triangle_circumcircle_center(t,e,r){const[o,a]=[t.sub(r),e.sub(r)],n=o.cross(a);return a.mul(o.norm()**2).sub(o.mul(a.norm()**2)).cross(n).div(2*n.norm()**2).add(r)}function tetrahedron_circumsphere_center(t,e,r,o){const[a,n,s]=[e,r,o].map((e=>e.sub(t)));return t.add(a.cross(n).mul(s.norm()**2).add(s.cross(a).mul(n.norm()**2)).add(n.cross(s).mul(a.norm()**2)).div(2*det3([a,n,s])))}function body_radius(t){return t[6].sub([0,0,t[6][2]]).norm()}function height(t){return t[0][2]-t[19][2]}function body_height(t){return t[4][2]-t[6][2]}function sd_sphere(t,e){return t.norm()-e}function spherize(t,e,r){return t.uvec().mul(Math.abs(sd_sphere(t,e))*r).add(t)}function cylinderize(t,e,r,o){const[a,n]=[body_radius(e),body_height(e)/2];let s,i;if(5===r)s=[0,0,n-a/2],i=e[0][2]+a/2-n;else if(3===r){const[t,r]=[e[0],e[3]];s=triangle_circumcircle_center(t,r,[r[0],-r[1],r[2]]),i=t.sub(s).norm()}else 2===r&&(p1=e[0],s=tetrahedron_circumsphere_center(p1,...[1,4,5].map((t=>e[t]))),i=p1.sub(s).norm());const[c,l,d,u]=[[0,0,s[2]],[0,0,-s[2]],[0,0,n],[0,0,-n]];if(n<t[2]){const e=Math.abs(sd_sphere(t.sub(c),i));return t.sub(d).uvec().mul(e*o).add(t)}if(t[2]<-n){const e=Math.abs(sd_sphere(t.sub(l),i));return t.sub(u).uvec().mul(e*o).add(t)}return t.sub([0,0,t[2]]).uvec().mul((a-t.slice(0,2).norm())*o).add(t)}function ico_config(t){let e;if(5===t)e=[[1,1,2,2],["T1-▲","T1-▼","T2-▲","T2-▼"],[[0,1,2],[6,11,7],[2,1,6],[6,7,2]],[5,5,5,5],[[1,2,3,4,5],[0,2,5,6,10],[0,1,3,6,7],[0,2,4,7,8],[0,3,5,8,9],[0,1,4,9,10],[1,2,7,10,11],[2,3,6,8,11],[3,4,7,9,11],[4,5,8,10,11],[1,5,6,9,11],[6,7,8,9,10]]];else if(3===t)e=[[1,1,1,1,2,2,3,3],["T1-▔","T1-▲","T1-▼","T1-▁","T2-▼","T2-▲","T3-▼","T3-▲"],[[0,2,1],[1,2,3],[6,9,11],[9,10,11],[1,3,6],[9,6,3],[1,6,5],[11,5,6]],[1,3,3,1,3,3,3,3],[[1,2,4,5,8],[0,2,3,5,6],[0,1,3,4,7],[1,2,6,7,9],[0,2,7,8,10],[0,1,6,8,11],[1,3,5,9,11],[2,3,4,9,10],[0,4,5,10,11],[3,6,7,10,11],[4,7,8,9,11],[5,6,8,9,10]]];else{if(2!==t)throw new Error("a must be 2, 3, or 5");e=[[1,1,1,1,2,2,2,2,3,3],["T1-▔","T1-▔","T1▁","T1▁","T2-▼","T2-▲","T2-▼","T2-▲","T3-▼","T3-▲"],[[0,1,2],[2,1,4],[9,10,6],[9,11,10],[0,2,6],[9,6,2],[2,4,9],[11,9,4],[0,6,5],[10,5,6]],[2,2,2,2,2,2,2,2,2,2],[[1,2,3,5,6],[0,2,3,4,7],[0,1,4,6,9],[0,1,5,7,8],[1,2,7,9,11],[0,3,6,8,10],[0,2,5,9,10],[1,3,4,8,11],[3,5,7,10,11],[2,4,6,10,11],[5,6,8,9,11],[4,7,8,9,10]]]}return Object.fromEntries(["t_idx","t_id","v_idx","t_rep","v_con"].map(((t,r)=>[t,e[r]])))}function ico_axis_5(t){const[e,o]=[t[0].norm(),t[1].norm()],a=e*Math.sqrt((5+r)/10),n=[0,0,(1+r)*e/(2*Math.sqrt(5+2*r))],s=[-a,0,0].roro([0,0,1],.3*Math.PI),i=s.add([e,0,0]),c=t[0].angle(t[1]),l=i.add([o,0,0].roro([0,1,0],-Math.PI-c)),d=s.add(l.sub(s).proj(i.sub(s))),u=[d[0],-Math.abs(d[1])*Math.sqrt(a*a*d[1]*d[1]-(d[0]*d[1])**2)/(d[1]*d[1]),0];if(Number.isNaN(u[1]))throw new Error("impossible construction!");const p=u.add([0,0,-Math.sqrt(l[2]*l[2]-(d[1]-u[1])**2)]);return[n,s,i].concat([1,2,3].map((t=>i.roro([0,0,1],2*t/5*Math.PI)))).concat([p]).concat([1,2,3,4].map((t=>p.roro([0,0,1],2*t/5*Math.PI)))).concat([[0,0,p[2]-n[2]]]).map((t=>t.add([0,0,-p[2]/2])))}function ico_axis_3(t,r=a,o=n){const[s,i,c]=[t[0].norm(),t[1].norm(),t[2].sub(t[1]).norm()],l=[0,s*(1/e),0],d=[s/2,-s*(e/6),0],u=[-s/2,-s*(e/6),0],p=[0,-s*(2*e/3),0];function fold(a){let[n,l]=[p.uvec().mul(s*(e/2)),d.sub(u).uvec()];const h=[0,-s*(e/6),0].add(n.roro(l,a)),m=h.roro([0,0,1],2/3*Math.PI);a=t[0].angle(t[1]),[n,l]=[h.sub(d).uvec().mul(i),h.cross(d).uvec()];const _=n.roro(l,a),[g,b]=[d.add(_.proj(n)),d.add(_)];[n,l]=[b.sub(g),d.sub(h).uvec()];const f=t=>c-g.add(n.roro(l,t)).sub(m).norm();brackets(f,0,2*Math.PI,r).next().value;a=bisection(f,...brackets(f,0,2*Math.PI,r).next().value,o,r).slice(-1);const y=g.add(n.roro(l,a));return[h,m,y,Math.abs(h[1])-y.sub([0,0,y[2]]).norm()]}const h=Math.PI/180/10;let m=0;for(let e=0;e*h<Math.PI/2;e++){m=e*h;try{fold(m);break}catch(P){}}let obj=t=>fold(t).slice(-1)[0];try{m=bisection(obj,...brackets(obj,m,Math.PI/4,r).next().value,o,r).slice(-1)}catch(P){throw new Error("impossible construction!")}const[_,g,b]=fold(m).slice(0,-1);if(Number.isNaN(_[0]))throw new Error("impossible construction!");const y=[0,0,1];m=2*Math.PI/3;const M=b.roro(y,-m),w=M.sub([0,0,M[2]]).roro(y,Math.PI/3).uvec().mul(l[1]).add([0,0,M[2]+_[2]-l[2]]);let v=[l,d,u,_,g.roro(y,m),g,b,M,M.roro(y,-m),w,w.roro(y,-m),w.roro(y,-2*m)];return v.map((t=>t.add([0,0,(v[0][2]-v.slice(-1)[0][2])/2])))}function ico_axis_2(t,e=a,r=n){const[s,i,c]=[t[0].norm(),t[1].norm(),t[2].sub(t[1]).norm()],l=[s/2,0,0],d=[-s/2,0,0],u=[0,-s*o/2,-(s*o-s)/2],p=[0,s*o/2,-(s*o-s)/2];function fold(o){let a=d.add(u).div(2),[n,s]=[a.sub(l),u.sub(d).uvec()];const p=a.add(n.roro(s,o)),h=p.roro([0,0,1],Math.PI);o=t[0].angle(t[1]),[n,s]=[u.sub(l).uvec().mul(i),u.cross(l).uvec()];const m=n.roro(s,o);a=l.add(m.proj(n));const _=l.add(m);[n,s]=[_.sub(a),l.sub(u).uvec()];const f=t=>c-a.add(n.roro(s,t)).sub(h).norm();o=bisection(f,...brackets(f,0,2*Math.PI,e).next().value,r,e).slice(-1);const g=a.add(n.roro(s,o));return[p,h,g,p.sub([0,0,p[2]]).norm()-g.sub([0,0,g[2]]).norm()]}const h=Math.PI/180/10;let m=0;for(let o=0;o*h<Math.PI/2;o++){m=o*h;try{fold(m);break}catch(w){}}let obj=t=>fold(t).slice(-1)[0];try{m=bisection(obj,...brackets(obj,m,Math.PI/4,e).next().value,r,e).slice(-1)}catch(w){throw new Error("impossible construction!")}const[_,g,b]=fold(m).slice(0,-1);if(Number.isNaN(_[0]))throw new Error("impossible construction!");obj=t=>l.roro([0,0,1],t).add([0,0,b[2]+_[2]]).sub(g).norm()-i;try{m=bisection(obj,...brackets(obj,0,2*Math.PI,e).next().value,r,e).slice(-1)}catch(w){throw new Error("impossible construction!")}const y=l.roro([0,0,1],m).add([0,0,b[2]+_[2]]),M=y.sub([0,0,y[2]]).uvec().roro([0,0,1],Math.PI/2).mul(p[1]).add([0,0,b[2]+_[2]-p[2]]);return coor=[l,d,u,p,_,g,b,b.roro([0,0,1],Math.PI),M,M.roro([0,0,1],Math.PI),y,y.roro([0,0,1],Math.PI)],coor.map((t=>t.add([0,0,(coor[0][2]-coor.slice(-1)[0][2])/2])))}function model_sa_error(t){const e=ck_vectors(calc_tile(t.t,t.R).basis,t.h,t.k,t.H,t.K),r=[[e[3],e[0]],[e[0],e[1]],[e[1],e[2]]],o=["","",ico_axis_2,ico_axis_3,"",ico_axis_5][t.a](e,a,n),s=ico_config(t.a),i=s.t_id.map((t=>parseInt(t[1]))).reduce(((t,e)=>t<e?e:t)),c=Array.from({length:i}).fill(0);s.t_id.forEach(((t,e)=>c[t[1]-1]+=s.t_rep[e]));const l=r.slice(0,i).map(((t,e)=>[...t[0],0].cross([...t[1],0]).norm()/2*c[e])).sum();return(l-s.v_idx.map((t=>t.map((t=>o[t])))).map(((t,e)=>t[1].sub(t[0]).cross(t[2].sub(t[0])).norm()/2*s.t_rep[e])).sum())/l}function lattice_config(t,e,r,o,a,n){const s=calc_tile(n,a),i=ck_vectors(s.basis,t,e,r,o),c=Array.from(tile_grid(i,s.basis)),l=c.map(s.tile),d=c.filter((t=>t.is_vertex)).map((t=>t.coor)).concat([[0,0]]);return l.flat().forEach((t=>{t.data.offset=t.data.mer+(d.some((e=>[t.position.x,t.position.y].sub(e).norm()<=s.radius))?0:3),t.data.centroid=t.segments.map((t=>t.point)).reduce(((t,e)=>t.add(e))).divide(t.segments.length)})),{tile:s,ck:i,lattice:l}}function calc_facets(t,e){const r=[[3,0],[0,1],[1,2]].map((e=>[t.ck[e[0]],t.ck[e[1]]])).map((t=>new paper.Path({segments:[[0,0],...t],closed:!0,data:{vectors:[[0,0],...t]}}))),o=r.map((r=>new paper.Group({children:t.lattice.flatMap((t=>t.map((t=>{const o=t.curves.map((t=>[t.segment1.point,t.segment2.point])),a=t.intersect(r,{insert:!1});return a.data.has_centroid=r.contains(a.data.centroid),a.data.centroid_on_vertex=a.segments.findIndex((t=>t.point.getDistance(a.data.centroid)<1e-5))>-1,a.style.fillColor=e["mer_color_"+a.data.offset]+e["mer_alpha_"+a.data.offset],a.data.strokes=a.curves.map((t=>[t.segment1.point,t.segment2.point])).map(((t,e)=>o.some((e=>[0,1].every((r=>e[0].subtract(t[r]).cross(e[1].subtract(t[r]))<1e-5))&&e[0].subtract(e[1]).isCollinear(t[0].subtract(t[1]))))?e:-1)).split(-1).map((t=>(t.push((t[t.length-1]+1)%a.curves.length),t))),a})))).sort(((t,e)=>t.data.offset-e.data.offset)).filter((t=>t.segments.length>0)),data:r.data})));return r.forEach((t=>t.remove())),o}function draw_lattice(t){const[e,r,o,a,n,s]=["h","k","H","K","R","t"].map((e=>t[e])),i=lattice_config(e,r,o,a,n,s);return i.lattice.flat().forEach((e=>e.style.fillColor=t["mer_color_"+e.data.offset]+t["mer_alpha_"+e.data.offset])),new paper.Group(new paper.Group({children:i.lattice.flat(),position:paper.view.center,style:{strokeColor:t.line_color+t.line_alpha,strokeWidth:t.line_size,strokeCap:"round",strokeJoin:"round"}}))}function draw_facets(t){const[e,r,o,a,n,s]=["h","k","H","K","R","t"].map((e=>t[e])),i=lattice_config(e,r,o,a,n,s),c=new paper.Group({children:calc_facets(i,t),position:paper.view.center});return i.lattice.forEach((t=>t.forEach((t=>t.remove())))),t.facet_toggle?(c.style.strokeColor=t.line_color+t.line_alpha,c.style.strokeWidth=t.line_size,c.style.strokeCap="round",c.style.strokeJoin="round",c):(c.remove(),new paper.Group({children:c.children.map((e=>new paper.Group(e.children.map((e=>{const r=e.segments.map((t=>t.point)),o=new paper.Group(e.data.strokes.map((e=>new paper.Path({segments:e.map((t=>r[t])),closed:!1,style:{strokeColor:t.line_color,strokeWidth:t.line_size}}))));return new paper.Group([e.clone(),o])}))))),style:{strokeCap:"round",strokeJoin:"round"}}))}function draw_net(t){const[e,r,o,a,n,s]=["h","k","H","K","R","t"].map((e=>t[e])),i=lattice_config(e,r,o,a,n,s),c=i.ck,l=calc_facets(i,t);let d;if(5===t.a){const t=new paper.Group(l.slice(0,2)).rotate(-degrees(c[0].angle([1,0]))).scale(-1,1),e=t.clone().rotate(180),r=e.children[1].children.flatMap((t=>t.segments)).map((t=>t.point)).reduce(((t,e)=>t.y<e.y?t:e));e.position.x+=t.children[0].bounds.right-r.x,e.position.y+=t.children[0].bounds.height,d=new paper.Group({children:Array.from({length:5}).flatMap(((r,o)=>{const[a,n]=[t.clone(),e.clone()];return a.position.x+=o*t.children[0].bounds.width,n.position.x+=o*t.children[0].bounds.width,[a,n]})).flatMap((t=>t.children)),position:paper.view.center}),[t,e].forEach((t=>t.remove()))}else if(3===t.a){const t=c[0].angle([1,0]),e=new paper.Group(l).rotate(-degrees(t)).scale(-1,1),r=l[0].clone().rotate(180);r.position.x+=c[0].norm()/2;const o=[r.bounds.topLeft,r.bounds.topRight,r.bounds.bottomCenter].reduce(((t,e)=>t.add(e))).divide(3),a=r.bounds.topRight.add(new paper.Point([1,0].mul(c[1].norm()).rot(-(Math.PI/3-c[1].angle(c[2]))))),n=r.bounds.topRight.add(new paper.Point([1,0].mul(c[2].norm()).rot(-(Math.PI/3-c[1].angle(c[2])+c[1].angle(c[2]))))),s=new paper.Group([...[1,2,3].map(((t,r)=>e.clone().rotate(120*r,o)))]);s.children.slice(0,-1).forEach((t=>t.children[1].remove()));const i=s.clone().rotate(180);i.bounds.left=Math.min(a.x,n.x),i.bounds.bottom=r.bounds.topRight.y,i.position.y-=i.children[1].children[0].bounds.bottom-a.y,i.children.forEach((t=>s.addChild(t.clone()))),s.position=paper.view.center,d=new paper.Group({children:s.children.flatMap((t=>t.children.flat()))}),[r,e,i].forEach((t=>t.remove()))}else{if(2!==t.a)throw new Error("invalid symmetry mode!");{const t=c[0].angle([1,0]),e=new paper.Group(l).rotate(-degrees(t)).rotate(-60).scale(-1,1),r=e.children[1].clone(),o=e.children[0].bounds.topLeft.subtract(e.children[0].bounds.bottomCenter);r.position=r.position.add(o);const a=new paper.Group([e.clone(),e.children[0].clone().rotate(60,e.children[0].bounds.topRight),r.clone()]),n=a.clone().rotate(180,a.children[0].children[0].bounds.topRight);n.position=n.position.add(o.rotate(240));const s=new paper.Group([a,n]),i=s.children[0].children[2].children.filter((t=>1===t.data.offset)).flatMap((t=>t.segments.map((t=>t.point)))).filter((t=>Math.abs(t.getDistance(s.children[0].children[1].bounds.bottomLeft)-c[1].norm())<1e-5)).reduce(((t,e)=>t.y<e.y?e:t)),u=s.clone();u.position=u.position.add(s.children[1].children[0].children[0].bounds.bottomRight.subtract(i));const p=new paper.Group([s,u]);p.position=paper.view.center;const h=p.children.flatMap((t=>t.children)).flatMap((t=>t.children));d=new paper.Group({children:[...h.filter(((t,e)=>e%3==0)).flatMap((t=>t.children)),...h.filter(((t,e)=>e%3!=0))]}),[2,5,8,11].forEach((t=>d.children[t].remove())),[e,r,a,n,s,u].forEach((t=>t.remove()))}}return d.scale(-1,1),l.forEach((t=>t.remove())),i.lattice.forEach((t=>t.forEach((t=>t.remove())))),t.facet_toggle?(d.style.strokeColor=t.line_color+t.line_alpha,d.style.strokeWidth=t.line_size,d.style.strokeCap="round",d.style.strokeJoin="round",d):(d.remove(),new paper.Group({children:d.children.map((e=>new paper.Group(e.children.map((e=>{const r=e.segments.map((t=>t.point)),o=new paper.Group(e.data.strokes.map((e=>new paper.Path({segments:e.map((t=>r[t])),closed:!1,style:{strokeColor:t.line_color,strokeWidth:t.line_size}}))));return new paper.Group([e.clone(),o])}))))),style:{strokeCap:"round",strokeJoin:"round"}}))}function draw_capsid(t){const[e,r,o,i,c,l]=["h","k","H","K","R","t"].map((e=>t[e])),d=lattice_config(e,r,o,i,c,l),u=calc_facets(d,t),p=ico_config(t.a),h=["","",ico_axis_2,ico_axis_3,"",ico_axis_5][t.a](d.ck,a,n),m=2*Math.PI/t.a,_=e==o&&r==i?e=>spherize(e,h[0].norm(),t.s):e=>cylinderize(e,h,t.a,t.s),g=camera(...[t.θ,t.ψ,t.φ].map(radians));let b=[];for(let a=0,n=0;a<p.t_idx.length;a++){const t=u[p.t_idx[a]-1],e=inv3(T(t.data.vectors.map((t=>t.concat(1))))),r=[0,1,2].map((t=>h[p.v_idx[a][t]]));for(let o=0;o<p.t_rep[a];o++,n++){const a=r.map((t=>t.roro([0,0,1],o*m))),s=mmul(T(a),e),i=t.children.map((t=>{const e=t.segments.map((t=>[t.point.x,t.point.y,1])).map((t=>mmul(s,t.T()).flat())).map((t=>_(t))).map((t=>mmul(g,t.concat(1).T()).flat())),r=mmul(g,_(mmul(s,[t.data.centroid.x,t.data.centroid.y,1].T()).flat()).concat(1).T()).flat();return new paper.Path({segments:e.map((t=>t.slice(0,2))),closed:t.closed,data:Object.assign({},t.data,{id:n,centroid:r,segments_3D:e,normal:e[1].sub(e[0]).cross(e[2].sub(e[0])).uvec()}),style:t.style})}));b=b.concat(new paper.Group({children:i,data:{type:"facet",centroid:mmul(g,_(a.centroid()).concat(1).T()).flat()}}))}}const y=h.map((t=>mmul(g,t.concat(1).T()).flat()));let M=t.penton_fiber_toggle?p.v_con.map((t=>t.map((t=>y[t])).reduce(((t,e)=>t.add(e)),[0,0,0]).uvec())).map(((e,r)=>[y[r],y[r].add(e.mul(t.fiber_length))])):[];M=M.concat(b.flatMap((t=>t.children)).filter((e=>t["mer_toggle_"+e.data.offset]&&e.data.has_centroid)).map((e=>{const r=e.data.centroid;return[r,r.add(e.data.normal.mul(t.fiber_length))]})));let w=[];M.forEach((t=>{let e=0;for(let r of w)t[0].sub(r[0][0]).norm()<s&&(e=r.push(t));0===e&&w.push([t])})),M=w.map((t=>[t[0][0],t.map((t=>t[1])).reduce(((t,e)=>t.add(e)),[0,0,0]).div(t.length)])).map((t=>new paper.Path.Line({from:t[0],to:t[1],data:{centroid:t[1].mul(2)}})));const v=t.knob_toggle?M.map((e=>new paper.Path.Circle({center:e.segments[1].point,radius:t.knob_size,data:{centroid:e.data.centroid}}))):[];b=b.concat(M).concat(v),b.sort(((t,e)=>t.data.centroid[2]-e.data.centroid[2]));const P=new paper.Group({children:b,position:paper.view.center,style:{strokeWidth:t.line_size,strokeCap:"round",strokeJoin:"round"}});return v.forEach((e=>{e.style.strokeColor=t.line_color+t.line_alpha,e.style.fillColor=t.knob_color+t.knob_alpha})),M.forEach((e=>{e.style.strokeColor=t.fiber_color+t.fiber_alpha,e.style.strokeWidth=t.fiber_size})),u.forEach((t=>t.remove())),d.lattice.forEach((t=>t.forEach((t=>t.remove())))),t.facet_toggle?(P.children.filter((t=>"facet"===t.data.type)).forEach((e=>{e.style.strokeColor=t.line_color+t.line_alpha,e.style.strokeWidth=t.line_size})),P.style.strokeCap="round",P.style.strokeJoin="round",P):(P.remove(),new paper.Group({children:P.children.map((e=>Object.hasOwn(e.data,"type")&&"facet"===e.data.type?new paper.Group(e.children.map((e=>{const r=e.segments.map((t=>t.point)),o=new paper.Group(e.data.strokes.map((e=>new paper.Path({segments:e.map((t=>r[t])),closed:!1,style:{strokeColor:t.line_color+t.line_alpha,strokeWidth:t.line_size}}))));return new paper.Group([e.clone(),o])}))):e)),style:{strokeCap:"round",strokeJoin:"round"}}))}Array.prototype.mul=function(t){return this.map((e=>e*t))},Array.prototype.div=function(t){return this.map((e=>e/t))},Array.prototype.add=function(t){return this.map(((e,r)=>e+t[r]))},Array.prototype.sub=function(t){return this.map(((e,r)=>e-t[r]))},Array.prototype.dot=function(t){return this.map(((e,r)=>e*t[r])).reduce(((t,e)=>t+e))},Array.prototype.sum=function(t=0){return this.reduce(((t,e)=>t+e),t)},Array.prototype.centroid=function(){return this.reduce(((t,e)=>t.add(e))).div(this.length)},Array.prototype.cross=function(t){return[this[1]*t[2]-this[2]*t[1],this[2]*t[0]-this[0]*t[2],this[0]*t[1]-this[1]*t[0]]},Array.prototype.rot=function(t){const[e,r]=[Math.cos(t),Math.sin(t)];return mmul([[e,-r],[r,e]],this.T()).flat()},Array.prototype.roro=function(t,e){return this.mul(Math.cos(e)).add(t.cross(this).mul(Math.sin(e))).add(t.mul(t.dot(this)).mul(1-Math.cos(e)))},Array.prototype.norm=function(){return Math.sqrt(this.map((t=>t*t)).sum())},Array.prototype.uvec=function(){return this.div(this.norm())},Array.prototype.angle=function(t){return Math.acos(this.dot(t)/(this.norm()*t.norm()))},Array.prototype.proj=function(t){return t.mul(this.dot(t)/t.dot(t))},Array.prototype.T=function(){return this.map((t=>[t]))},Array.prototype.distance=function(t){return this.sub(t).norm()},Array.prototype.has=function(t,e=n){return this.some((r=>r.length===t.length&&r.distance(t)<e))},Array.prototype.split=function(t){return this.reduce((function(t,e){return-1===e?t.push([]):t[t.length-1].push(e),t}),[[]]).filter((t=>t.length))},"undefined"!=typeof exports&&(module.exports={ico_axis_2:ico_axis_2,ico_axis_3:ico_axis_3,ico_axis_5:ico_axis_5});

diff --git a/js/app.js b/js/app.js
@@ -1,5 +1,5 @@
 /*!
- * democapsid v2.1.3 - Render viral capsids in the browser and export SVG.
+ * democapsid v2.2.0 - Render viral capsids in the browser and export SVG.
  * MIT License
  * Copyright (c) 2020 - 2024, Daniel Antonio Negrón (dnanto/remaindeer)
  */
@@ -150,7 +150,6 @@ function update(e) {
     const mode = Object.keys(DRAW_MODES).find((e) => PARAMS["mode_" + e]);
     try {
         const g = DRAW_MODES[mode](PARAMS);
-        console.log(g);
         const [h, k, H, K] = ["h", "k", "H", "K"].map((e) => PARAMS[e]);
         msg.children[1].innerText = [
             `${mode}[${params_to_tag(PARAMS)}]`,

diff --git a/app.html b/app.html
@@ -12,7 +12,7 @@
         <section class="layout">
             <div class="sidebar">
                 <fieldset style="text-align: center">
-                    <b>&#11041;&nbsp;<a href="https://github.com/dnanto/democapsid">democapsid v2.1.3</a>&nbsp;&#11041;</b>
+                    <b>&#11041;&nbsp;<a href="https://github.com/dnanto/democapsid">democapsid v2.2.0</a>&nbsp;&#11041;</b>
                 </fieldset>
                 <fieldset>
                     <legend>model</legend>

diff --git a/js/democapsid.js b/js/democapsid.js
@@ -1,10 +1,10 @@
 /*!
- * democapsid v2.1.3 - Render viral capsids in the browser and export SVG.
+ * democapsid v2.2.0 - Render viral capsids in the browser and export SVG.
  * MIT License
  * Copyright (c) 2020 - 2024, Daniel Antonio Negrón (dnanto/remaindeer)
  */
 
-const VERSION = "2.1.3";
+const VERSION = "2.2.0";
 
 const SQRT3 = Math.sqrt(3);
 const SQRT5 = Math.sqrt(5);

diff --git a/README.md b/README.md
@@ -4,7 +4,7 @@ This work implements Caspar-Klug Theory to generate high-quality, vectorized cap
 
 # Run
 
--   Run democapsid (v2.1.3): [https://dnanto.github.io/democapsid/app.html](https://dnanto.github.io/democapsid/app.html).
+-   Run democapsid (v2.2.0): [https://dnanto.github.io/democapsid/app.html](https://dnanto.github.io/democapsid/app.html).
 
 ![screenshot.png](screenshot.png)
 

diff --git a/CHANGELOG.md b/CHANGELOG.md
@@ -1,3 +1,9 @@
+# v2.2.0
+
+-   make facet outline optional
+-   add lattice generation
+-   add facet generation
+
 # v2.1.3
 
 -   revert levo/dextro bug-fix, it was correct before...
